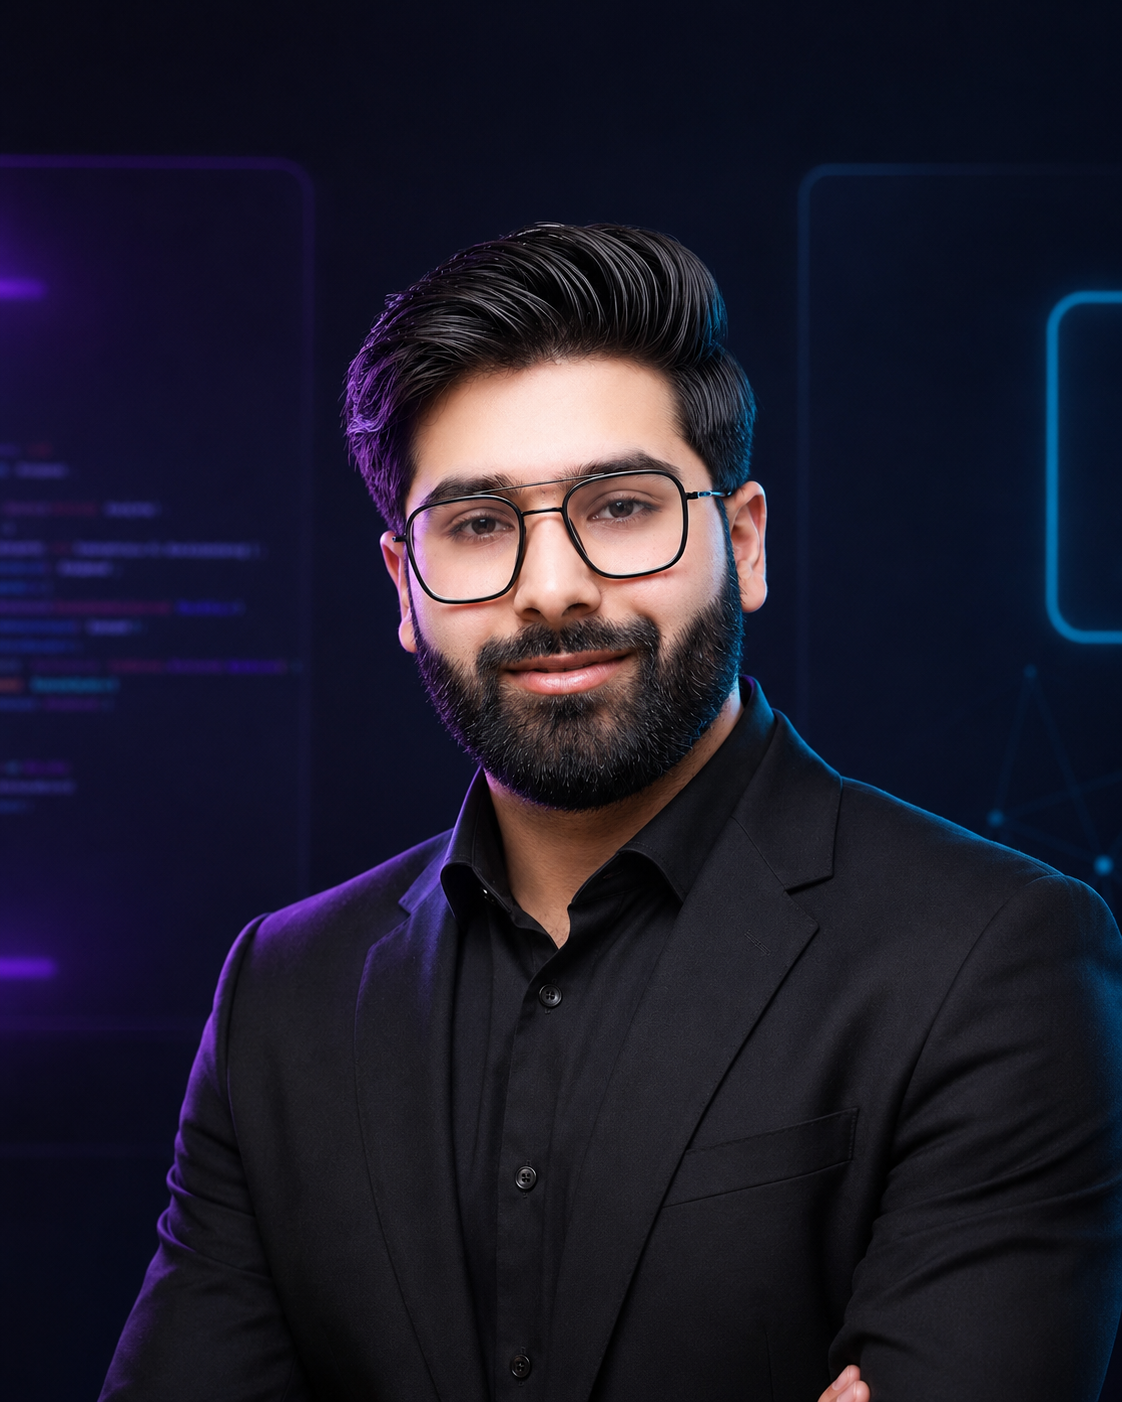
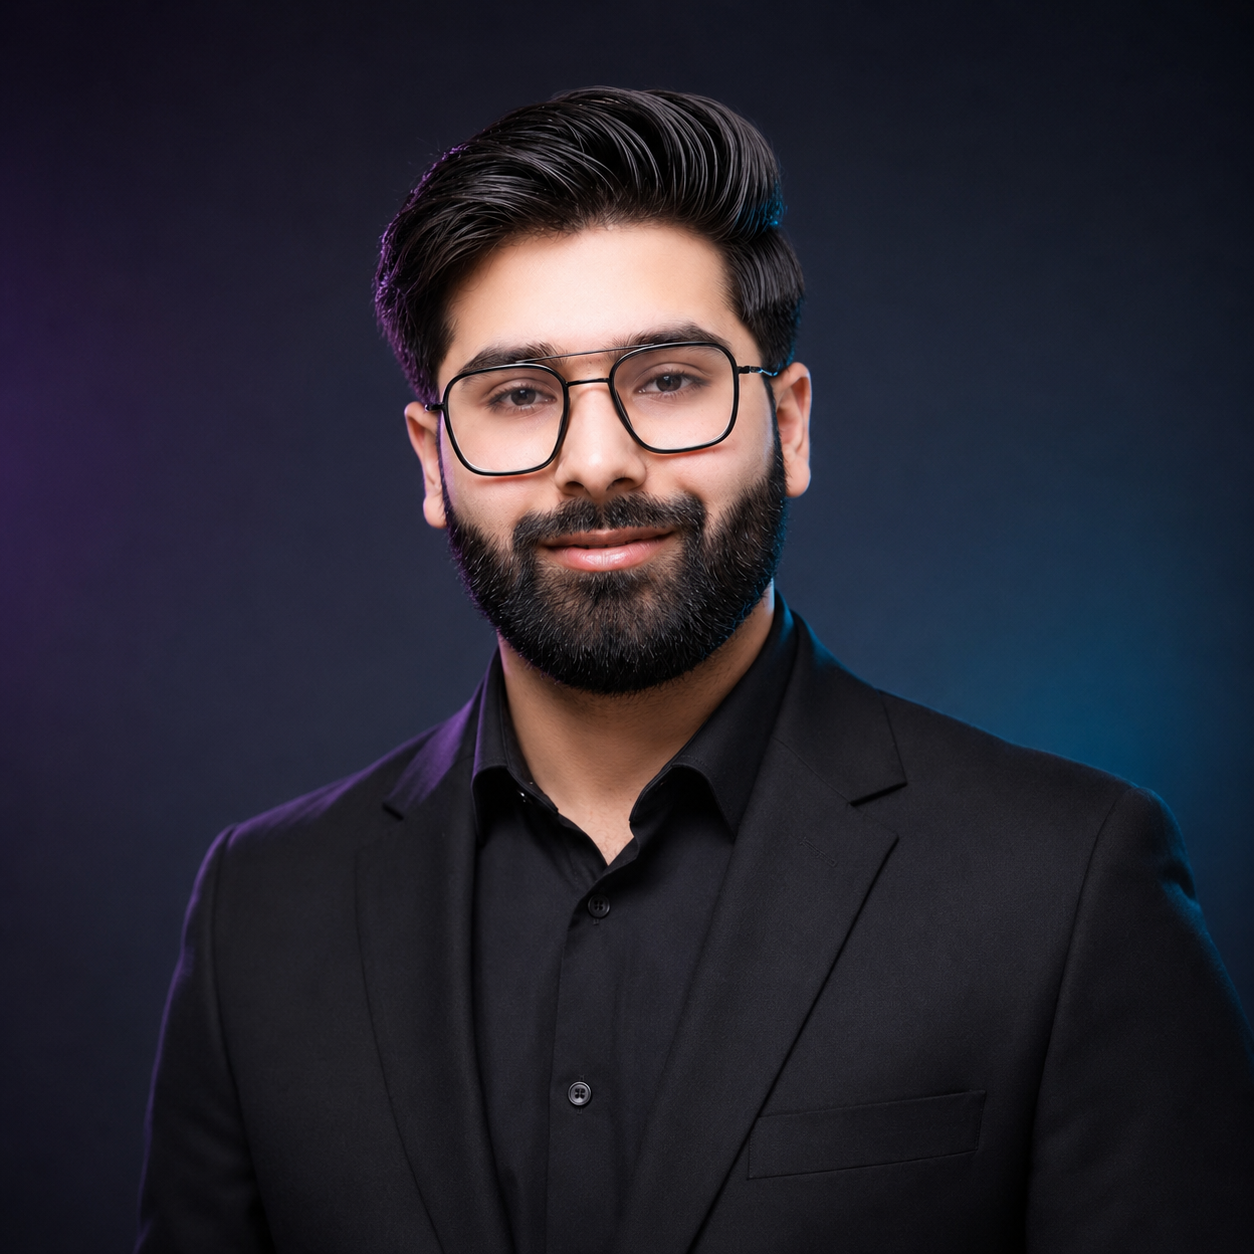
.

diff --git a/index.html b/index.html
@@ -19,7 +19,7 @@
 
     <meta property="og:title" content="Mohammad Rohaan — Portfolio" />
     <meta property="og:type" content="website" />
-    <meta property="og:image" content="https://rohaan2802.github.io/images/resume_img.png" />
+    <meta property="og:image" content="https://rohaan2802.github.io/images/portfolio_img.png" />
     <meta property="og:url" content="https://rohaan2802.github.io/" />
     <meta
       property="og:description"
@@ -28,7 +28,7 @@
 
     <meta name="twitter:card" content="summary_large_image" />
     <meta name="twitter:title" content="Mohammad Rohaan — Portfolio" />
-    <meta name="twitter:image" content="https://rohaan2802.github.io/images/resume_img.png" />
+    <meta name="twitter:image" content="https://rohaan2802.github.io/images/portfolio_img.png" />
     <meta
       name="twitter:description"
       content="BSCS student — software engineering, AI/ML, data science, embedded robotics, and systems. Projects, resume, and contact."
@@ -143,7 +143,7 @@
           <div class="hero-card" aria-label="Profile">
             <div class="hero-photo">
               <img
-                src="images/resume_img.png"
+                src="images/portfolio_img.png"
                 alt="Portrait of Mohammad Rohaan"
                 loading="eager"
                 width="640"
